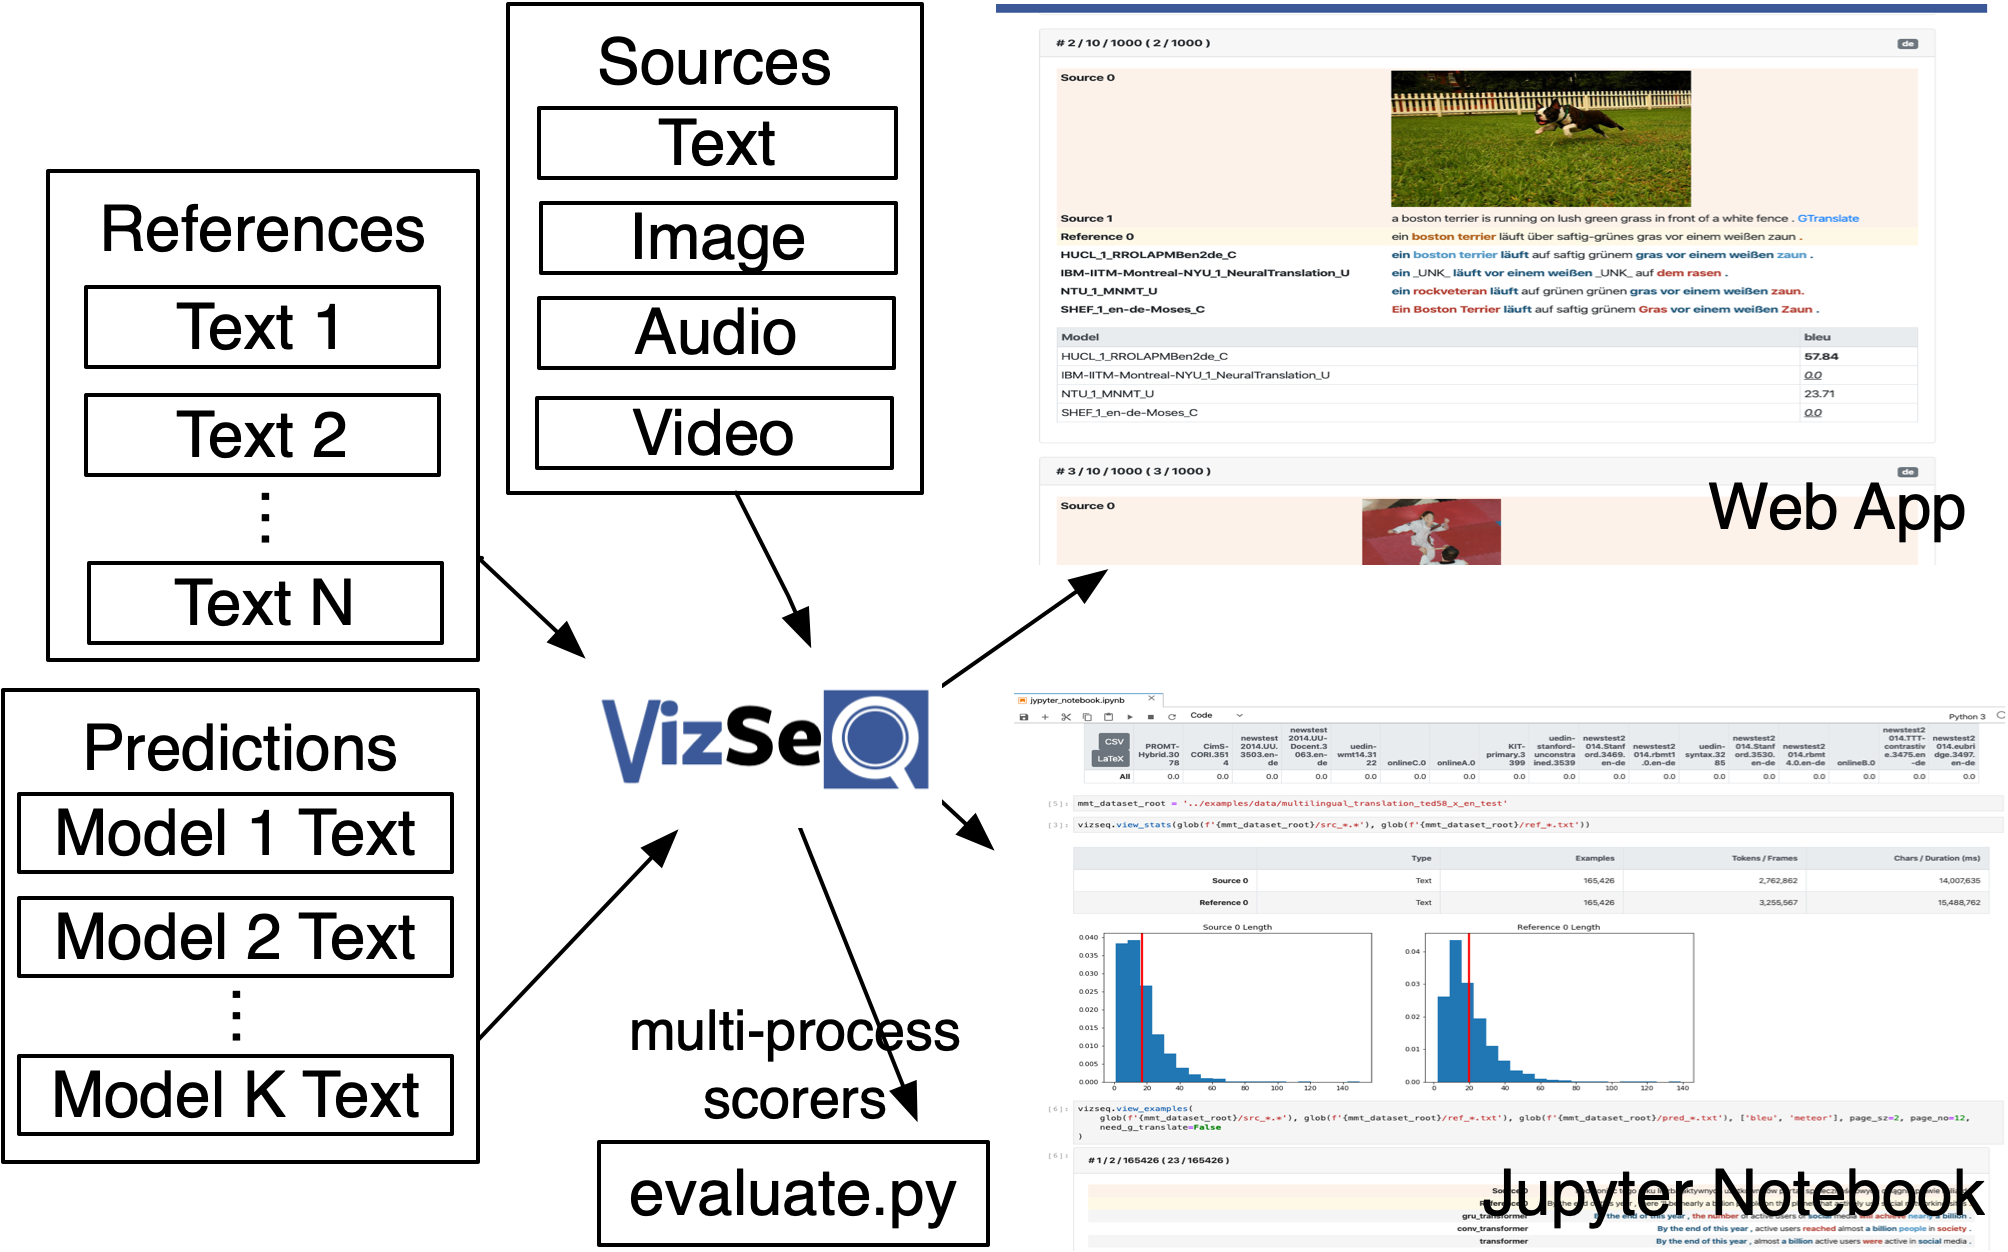
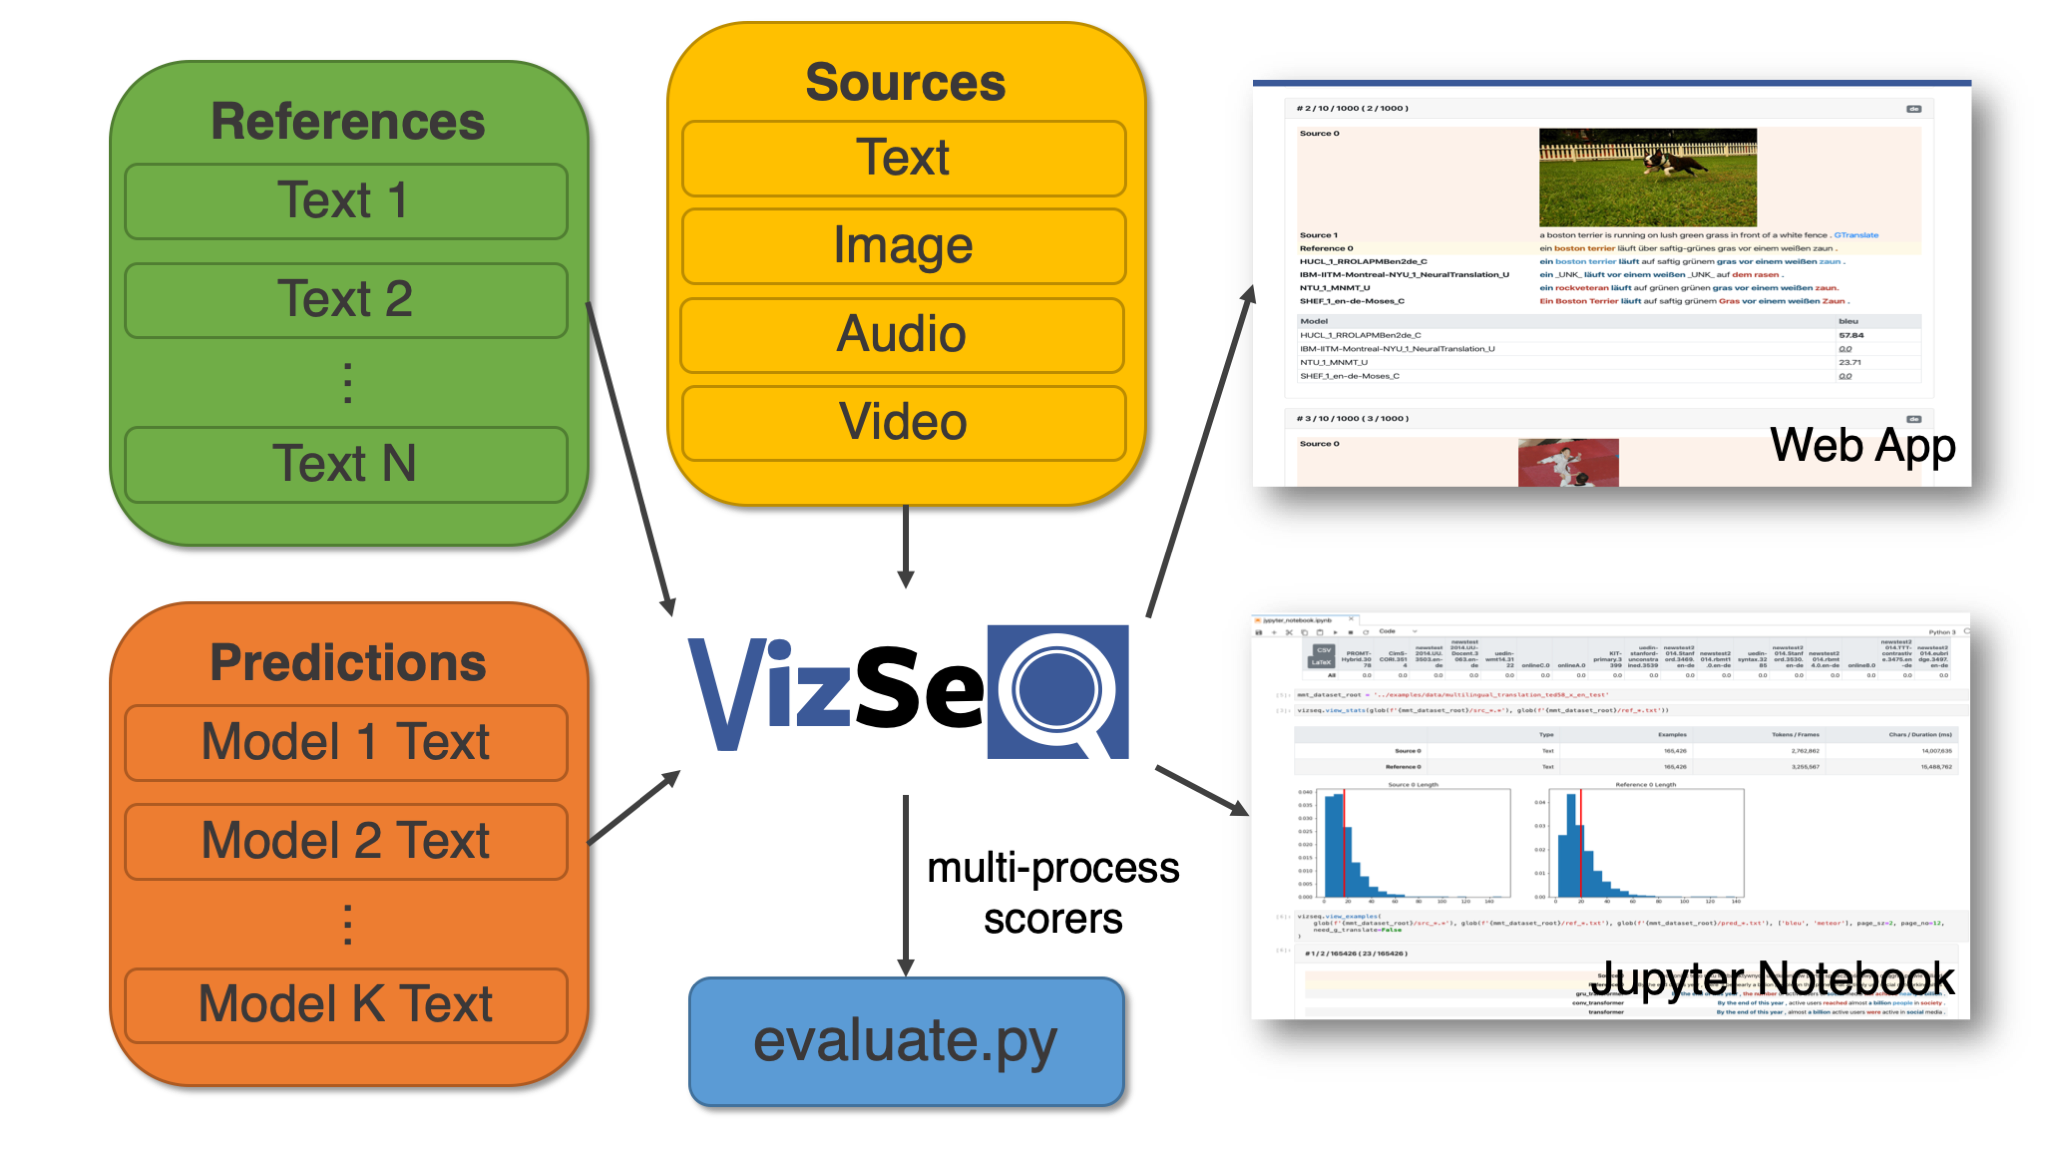
Update Docs (#24)
* update visual

* add scorer docs

* update docs and visual

diff --git a/website/sidebars.js b/website/sidebars.js
@@ -8,8 +8,8 @@
 module.exports = {
   docs: {
     "Overview": ['overview'],
-    "Getting Started": ['getting_started/installation', 'getting_started/ipynb_example', 'getting_started/web_app_example'],
-    "Features": ['features/data', 'features/metrics', 'features/tags', 'features/ipynb_api', 'features/g_translate'],
+    "Getting Started": ['getting_started/installation', 'getting_started/ipynb_example', 'getting_started/web_app_example', 'getting_started/scorer_example'],
+    "Features": ['features/data', 'features/metrics', 'features/tags', 'features/ipynb_api', 'features/scorer_api', 'features/g_translate'],
     "Extending VizSeq": ['new_metric'],
   },
 };

diff --git a/website/docs/features/scorer_api.md b/website/docs/features/scorer_api.md
@@ -1,0 +1,33 @@
+---
+id: scorer_api
+title: Scorer APIs
+sidebar_label: Scorer APIs
+---
+
+## Parent Class: vizseq.scorer.VizSeqScorer
+All scorers are inherited from this class and implement the `score()` interface.
+
+### Constructor
+#### Arguments
+- **corpus_level: bool = True**: calculating corpus-level score. Default to `True`.
+- **sent_level: bool = False**: calculating sentence-level score. Default to `False`.
+- **n_workers: Optional[int] = None**: the number of processes to be used. `None` for automatic configuration. Default to `None`.
+- **verbose: bool = False**: printing detailed logs.
+- **extra_args: Optional[Dict[str, str]] = None**: a key-value dictionary for metric-specific parameters. Default to `None`.
+
+
+
+### score()
+#### Arguments
+- **hypothesis: List[str]**: The model predictions.
+- **references: List[List[str]]**: The references. Inner list #1 for the 1st set of references, #2 for the 2nd set of references, and so on. (See also the [example](../getting_started/scorer_example).) 
+- **tags: Optional[List[List[str]]] = None**: The sentence tags. Inner list #1 for the 1st set of tags, #2 for the 2nd set of tags, and so on. Default to `None`.
+
+#### Returns
+- **score: vizseq.scorers.VizSeqScore**: `VizSeqScore` is a namedtuple, whose definition is as follows:
+```python
+class VizSeqScore(NamedTuple):
+    corpus_score: Optional[float] = None
+    sent_scores: Optional[List[float]] = None
+    group_scores: Optional[Dict[str, float]] = None
+```

diff --git a/website/docs/getting_started/scorer_example.md b/website/docs/getting_started/scorer_example.md
@@ -1,0 +1,33 @@
+---
+id: scorer_example
+title: Scorer Example
+sidebar_label: Scorer Example
+---
+
+VizSeq scorers provide corpus-level, sentence-level and group-level (groups defined by the sentence tags) scores. They are
+implemented with multi-processing.
+
+Here is an example for using BLEU scorer:
+```python
+from vizseq.scorers.bleu import BLEUScorer
+
+scorer = BLEUScorer(corpus_level=True, sent_level=True, n_workers=2, verbose=False, extra_args=None)
+
+ref = [['This is a sample #1 reference.', 'This is a sample #2 reference.']]
+hypo = ['This is a sample #1 prediction.', 'This is a sample #2 model prediction.']
+tags = [['Test Group 1', 'Test Group 2']]
+
+scores = scorer.score(hypo, ref, tags=tags)
+
+print(f'Corpus-level BLEU: {scores.corpus_score}')
+print(f'Sentence-level BLEU: {scores.sent_scores}')
+print(f'Group BLEU: {scores.group_scores}')
+```
+
+```
+Corpus-level BLEU: 67.945
+Sentence-level BLEU: [75.984, 61.479]
+Group BLEU: {'Test Group 2': 75.984, 'Test Group 1': 75.984}
+```
+
+Please see the [Scorer APIs](../features/scorer_api) section for full references.

diff --git a/README.md b/README.md
@@ -1,7 +1,7 @@
-[![PyPI](https://img.shields.io/pypi/v/vizseq)](https://pypi.org/project/vizseq/)
-[![CircleCI](https://img.shields.io/circleci/build/github/facebookresearch/vizseq)](https://circleci.com/gh/facebookresearch/vizseq)
-![PyPI - License](https://img.shields.io/pypi/l/vizseq)
-![PyPI - Python Version](https://img.shields.io/pypi/pyversions/vizseq)
+[![PyPI](https://img.shields.io/pypi/v/vizseq?style=flat-square)](https://pypi.org/project/vizseq/)
+[![CircleCI](https://img.shields.io/circleci/build/github/facebookresearch/vizseq?style=flat-square)](https://circleci.com/gh/facebookresearch/vizseq)
+![PyPI - License](https://img.shields.io/pypi/l/vizseq?style=flat-square)
+![PyPI - Python Version](https://img.shields.io/pypi/pyversions/vizseq?style=flat-square)
 
 # <img src="logo.png" alt="VizSeq" width="160">
 [VizSeq: A Visual Analysis Toolkit for Text Generation Tasks.](https://arxiv.org/pdf/1909.05424.pdf)
